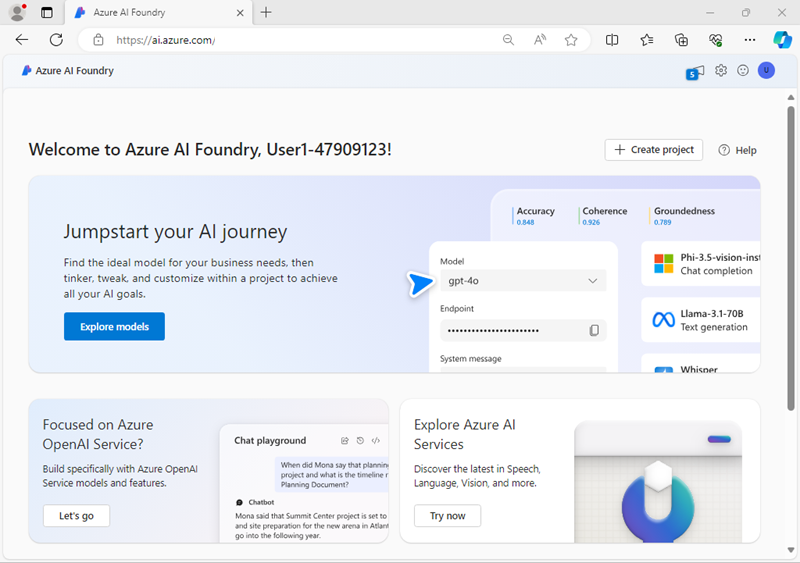
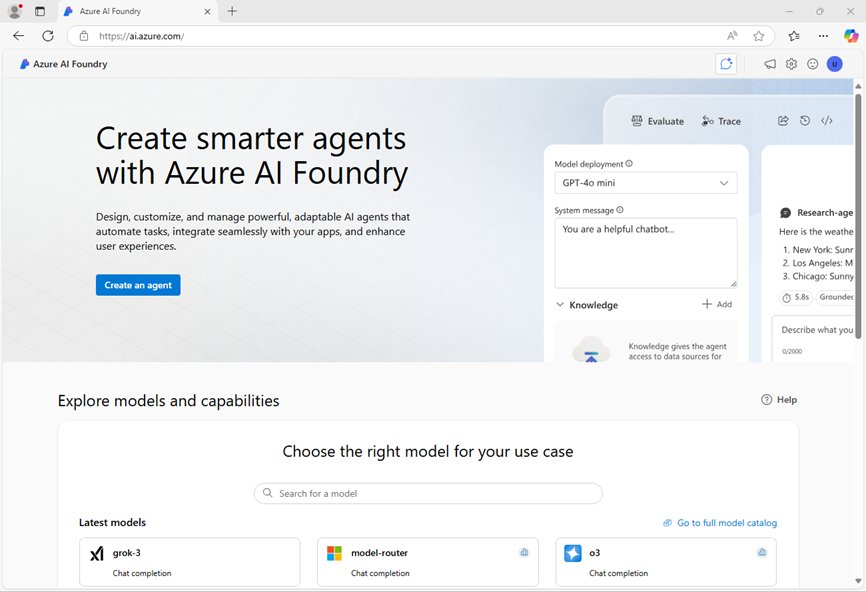
Updated for new UI

diff --git a/Instructions/01-Explore-ai-studio.md b/Instructions/01-Explore-ai-studio.md
@@ -22,114 +22,66 @@ Let's start by signing into Azure AI Foundry portal.
 
 1. Review the information on the home page.
 
-## Create a hub and project
+## Create a project
 
-An Azure AI *hub* provides a collaborative workspace within which you can define one or more *projects*. Let's create a project and Azure AI hub and review the Azure resources that are created to support them.
+An Azure AI *project* provides a collaborative workspace for AI development. Let's stary by choosing a model that we want to work with and creating a project to use it in.
 
-1. In the home page, select **+ Create project**.
-1. In the **Create a project** wizard, enter a valid name for your project and if an existing hub is suggested, choose the option to create a new one. Then review the Azure resources that will be automatically created to support your hub and project.
+1. In the home page, in the **Explore models and capabilities** section, search for the `gpt-4o` model; which we'll use in our project.
+1. In the search results, select the **gpt-4o** model to see its details, and then at the top of the page for the model, select **Use this model**.
+1. When prompted to create a project, enter a valid name for your project and expand **Advanced options**.
 1. Select **Customize** and specify the following settings for your hub:
-    - **Hub name**: *A valid name for your hub*
+    - **Azure AI Foundry resource**: *A valid name for your Azure AI Foundry resource*
     - **Subscription**: *Your Azure subscription*
     - **Resource group**: *Create or select a resource group*
-    - **Location**: Select **Help me choose** and then select **gpt-4o** in the Location helper window and use the recommended region\*
-    - **Connect Azure AI Services or Azure OpenAI**: *Create a new AI Services resource*
-    - **Connect Azure AI Search**: Skip connecting
+    - **Region**: *Select any **AI Services supported location***\*
 
-    > \* Azure OpenAI resources are constrained by regional model quotas. In the event of a quota limit being exceeded later in the exercise, there's a possibility you may need to create another resource in a different region.
+    > \* Some Azure AI resources are constrained by regional model quotas. In the event of a quota limit being exceeded later in the exercise, there's a possibility you may need to create another resource in a different region.
 
-1. Select **Next** and review your configuration. Then select **Create** and wait for the process to complete.
-1. When your project is created, close any tips that are displayed and review the project page in Azure AI Foundry portal, which should look similar to the following image:
+1. Select **Create** and wait for your project, including the gpt-4 model deployment you selected, to be created.
+1. When your project is created, the chat playground will be opened automatically so you can test your model:
 
-    ![Screenshot of a Azure AI project details in Azure AI Foundry portal.](./media/ai-foundry-project.png)
+    ![Screenshot of a Azure AI Foundry project chat playground.](./media/ai-foundry-chat-playground.png)
 
-1. At the bottom of the navigation pane on the left, select **Management center**. The management center is where you can configure settings at both the *hub* and *project* levels; which are both shown in the navigation pane.
+1. In the navigation pane on the left, select **Overview** to see the main page for your project; which looks like this:
+
+    > **Note**: If an *Insufficient permissions** error is displayed, use the **Fix me** button to resolve it.
+
+    ![Screenshot of a Azure AI Foundry project overview page.](./media/ai-foundry-project.png)
+
+1. At the bottom of the navigation pane on the left, select **Management center**. The management center is where you can configure settings at both the *resource* and *project* levels; which are both shown in the navigation pane.
 
     ![Screenshot of the Management center page in Azure AI Foundry portal.](./media/ai-foundry-management.png)
 
-    Note that in the navigation pane, you can view and manage hub and project level assets in the following pages:
+    The *resource* level relates to the **Azure AI Foundry** resource that was created to support your project. This resource includes connections to Azure AI Services and Azure AI Foundry models; and provides a centralplace to manage user access to AI development projects.
 
-    - Overview
-    - Users
-    - Models and endpoints
-    - Connected resources
-    - Compute (*hub-level only*)
+    The *project* level relates to your individual project, where you can add and manage project-specific resources.
 
-    > **Note**: Depending on the permissions assigned to your Entra ID in your Azure tenant, you may not be able to manage resources at the hub level.
+1. In the navigation pane, in the section for your Azure AI Foundry resource, select the **Overview** page to view its details.
+1. Select the link to the **Resource group** associated with the resource to open a new browser tab and navigate to the Azure portal. Sign in with your Azure credentials if prompted.
+1. View the resource group in the Azure portal to see the Azure resources that have been created to support your Azure AI Foundry resource and your project.
 
-1. In the navigation pane, in the section for your hub, select the **Overview** page to view details of your hub. 
-1. In the **Hub properties** pane, select the link to the resource group associated with the hub to open a new browser tab and navigate to the Azure portal. Sign in with your Azure credentials if prompted.
-1. View the resource group in the Azure portal to see the Azure resources that have been created to support your hub and project.
+    ![Screenshot of an Azure AI Fiundry resource and project resources in the Azure portal.](./media/azure-portal-resources.png)
 
-    ![Screenshot of an Azure AI hub and related resources in the Azure portal.](./media/azure-portal-resources.png)
+    Note that the resources have been created in the region you selected when creating the project.
 
-    Note that the resources have been created in the region you selected when creating the hub.
+1. Close the Azure portal tab and return to the Azure AI Foundry portal.
 
-## Add a connected resource
+## Review project connections
 
-Suppose your project needs access to a second **Azure AI Services** resource in a different region.
-
-1. In the Azure portal, in the page for your resource group, select **+ Create** and search for `Azure AI Services`. In the results, select the **Azure AI Services** multi-service resource as shown in the following image:
-
-    ![Screenshot of the Azure AI Services resource tile in the Azure portal.](./media/azure-ai-services.png)
-
-1. Create a new **Azure AI Services** resource with the following settings:
-    - **Subscription**: *Your Azure subscription*
-    - **Resource group**: *The resource group containing your existing Azure AI Foundry resources*
-    - **Region**: *Select any available region other than the one containing your existing resources*
-    - **Name**: *A suitable name for your second Azure AI Services resource*
-    - **Pricing tier**: Standard S0
-1. Wait for the AI Services resource to be created.
-1. Return to the Azure AI Foundry portal browser tab, and in the **Management center** view, in the navigation pane, in the section for your *<u>project</u>*, view the **Connected resources** page. The existing connected resources in your project are listed.
-
-    ![Screenshot of connected resources in an AI Foundry project.](./media/ai-foundry-project-resources.png)
-
-1. Select **+ New connection** and select the **Azure AI Services** resource type. Then browse the available resources to find the AI Services resource you created in the Azure portal and use its **Add Connection** button to add it to your project.
-
-    ![Screenshot of the Connect an Azure AI services resources dialog box in an AI Foundry project.](./media/add-resource.png)
-
-1. When the new resource is connected, close the **Connect an Azure AI services resources** dialog box and verify that new connected resources for Azure AI Services and Azure OpenAI Service are listed.
-
-## Explore AI Services
-
-Your Azure AI Foundry project has access to Azure AI Services. Let's try that out in the portal.
+Your Azure AI Foundry project and the Azure AI Foundry resource to which it belongs include connections to resources that you can use in AI applications.
 
 1. In the Management center page, in the navigation pane, under your project, select **Go to project**.
-1. In the navigation pane for your project, select **AI Services** and select the **Language and Translator** tile.
+1. In the project **Overview** page, view the **Endpoints and keys** section; which contains endpoints and authorization keys that you can use in your application code to access:
+    - The Azure AI Foundry project and any models deployed in it.
+    - Azure OpenAI in Azure AI Foundry models.
+    - Azure AI services
 
-    ![Screenshot of the Language and Translator tile in Azure AI Foundry portal.](./media/language-and-translator.png)
+## Test a generative AI model
 
-1. In the **Explore Language capabilities** section, view the **Translation** tab and select **Text translation**.
+YNow that you know something about the configuration of your Azure AI Foundry project, you can return to the chat playground to explore the model you deployed.
 
-    ![Screenshot of the Text translation tile in Azure AI Foundry portal.](./media/text-translation.png)
-
-1. In the **Text translation** page, in the **Try it out** section, view the **Try with your own** tab.
-1. Select either of your Azure AI Services resources and then try translating some text (for example, `Hello world`) from one language to another.
-
-    ![Screenshot of the Text translation tile in Azure AI Foundry portal.](./media/try-translation.png)
-
-## Deploy and test a generative AI model
-
-Your project also contains connected resources for Azure OpenAI, which enables you to use Azure OpenAI language models to implement generative AI solutions. You can also find and use generative AI models from other vendors in the model catalog.
-
-1. In the pane on the left for your project, in the **My assets** section, select the **Models + endpoints** page.
-1. In the **Models + endpoints** page, in the **Model deployments** tab, in the **+ Deploy model** menu, select **Deploy base model**.
-1. Search for the **gpt-4o** model in the list, and then select and confirm it.
-1. Deploy the model with the following settings by selecting **Customize** in the deployment details:
-    - **Deployment name**: *A valid name for your model deployment*
-    - **Deployment type**: Global Standard
-    - **Automatic version update**: Enabled
-    - **Model version**: *Select the most recent available version*
-    - **Connected AI resource**: *Select your Azure OpenAI resource connection*
-    - **Tokens per Minute Rate Limit (thousands)**: 50K *(or the maximum available in your subscription if less than 50K)*
-    - **Content filter**: DefaultV2
-
-    > **Note**: Reducing the TPM helps avoid over-using the quota available in the subscription you are using. 50,000 TPM should be sufficient for the data used in this exercise. If your available quota is lower than this, you will be able to complete the exercise but you may experience errors if the rate limit is exceeded.
-
-1. Wait for the deployment to complete.
-
-1. After the model has been deployed, in the deployment overview page, select **Open in playground**.
-1. In the **Chat playground** page, ensure that your model deployment is selected in the **Deployment** section.
+1. In the navigation pane on the left for your project, select **Playgrounds** 
+1. Open the **Chat playground**, and ensure that your **gpt-4o** model deployment is selected in the **Deployment** section.
 1. In the **Setup** pane, in the **Give the model instructions and context** box, enter the following instructions:
 
     ```
@@ -143,12 +95,12 @@ Your project also contains connected resources for Azure OpenAI, which enables y
 
 ## Summary
 
-In this exercise, you've explored Azure AI Foundry, and seen how to create and manage hubs and projects, add connected resources, and explore Azure AI Services and Azure OpenAI models in the Azure AI Foundry portal.
+In this exercise, you've explored Azure AI Foundry, and seen how to create and manage projects and their related resources.
 
 ## Clean up
 
 If you've finished exploring Azure AI Foundry portal, you should delete the resources you have created in this exercise to avoid incurring unnecessary Azure costs.
 
-1. Return to the browser tab containing the Azure portal (or re-open the [Azure portal](https://portal.azure.com) at `https://portal.azure.com` in a new browser tab) and view the contents of the resource group where you deployed the resources used in this exercise.
+1. In the [Azure portal](https://portal.azure.com) at `https://portal.azure.com`, view the contents of the resource group where you deployed the resources used in this exercise.
 1. On the toolbar, select **Delete resource group**.
 1. Enter the resource group name and confirm that you want to delete it.
